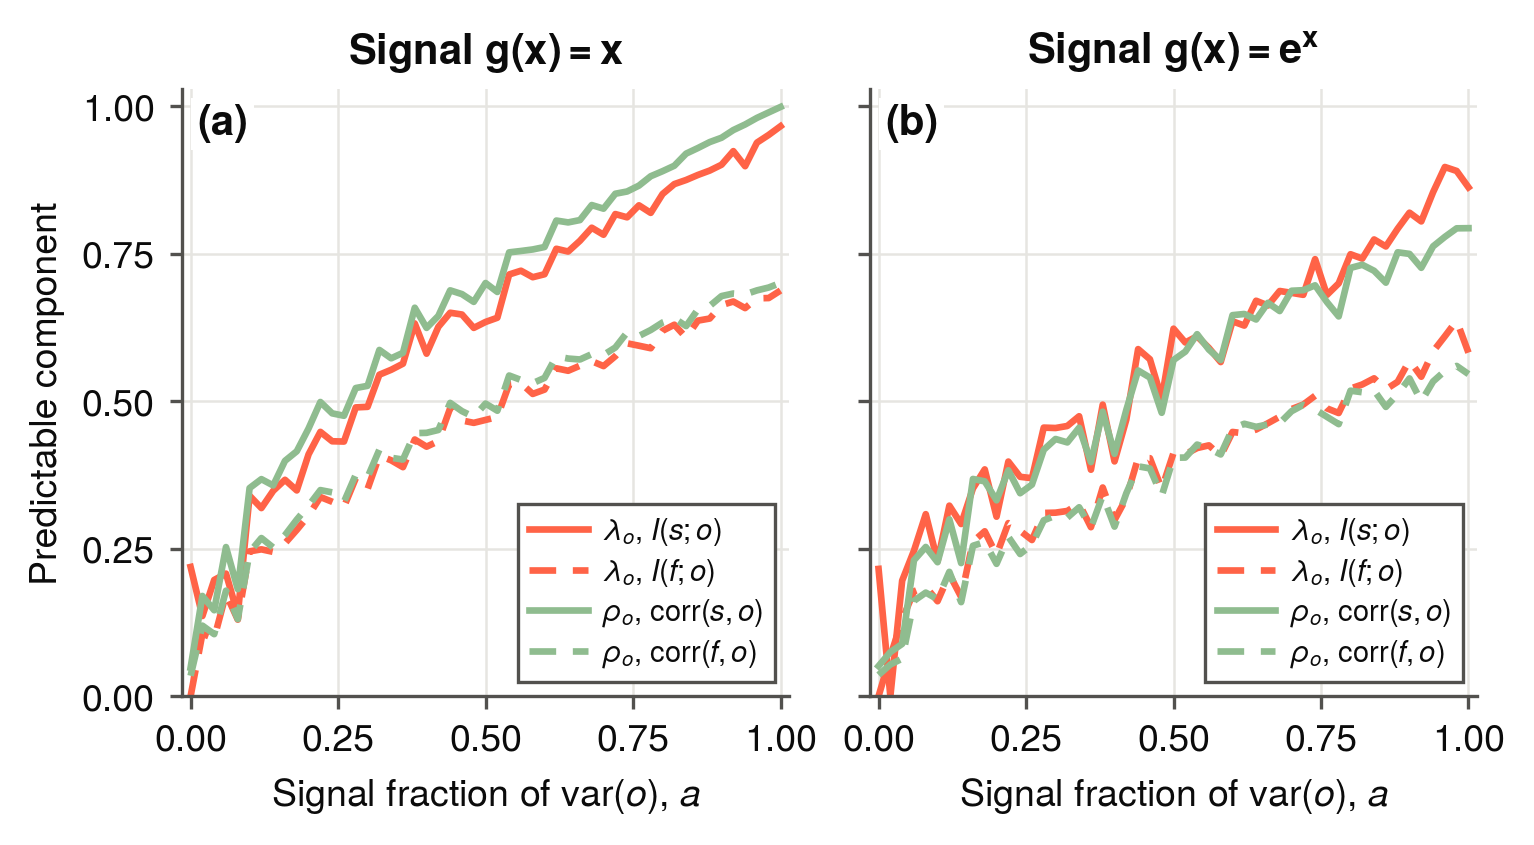
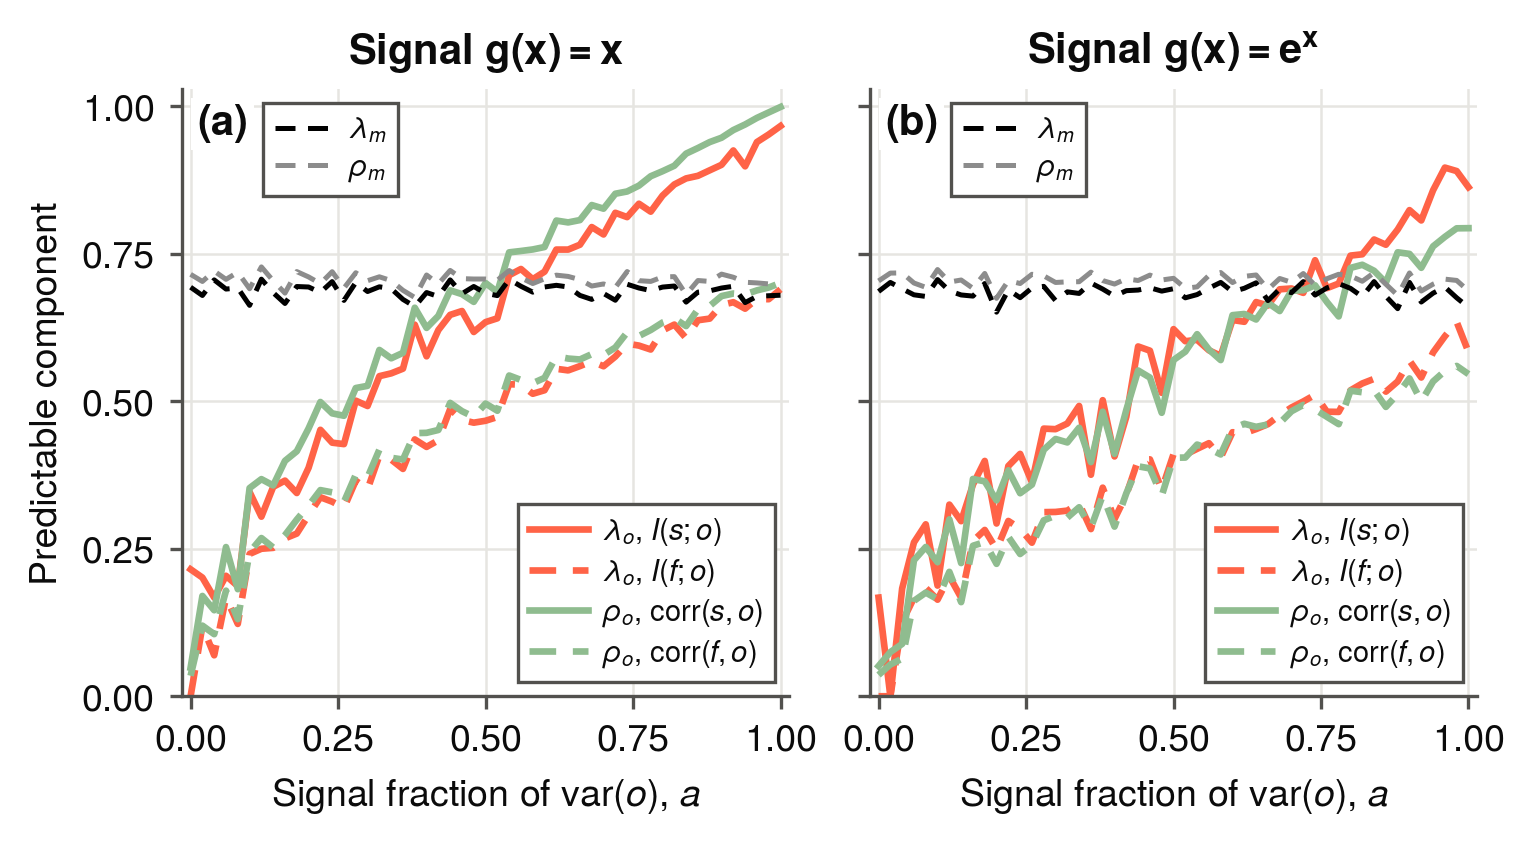
fixed-ensemble-lambda-o: the ensemble's lambda_m and rho_m as reference lines
Dashed black lambda_m (I(s_-n; f), pooled) and dashed grey rho_m (rho_m^(2),
also from s_-n) of the fixed ensemble, flat near sqrt(0.5) since the members do
not change with a; their key sits top left beside the panel letter, the skill
key stays lower right. ensemble() is now shared by both figures
(gaussian-array-lambda-rho values unchanged, checked bitwise).

diff --git a/scripts/gaussian_demo.py b/scripts/gaussian_demo.py
@@ -25,7 +25,8 @@ fixed-ensemble-lambda-o: the members do not change with a, f_n = sqrt(R_M) x + s
 g(x) = x and g(x) = exp(x). Same N, T, bins and estimators as the bottom row above. A member is at
 most sqrt(R_M) correlated with x, so the (f; o) curves stop near sqrt(0.5) at a = 1; with g = exp
 the observations are a nonlinear function of the members' signal, which lambda_o sees and
-rho_o, a linear measure, does not fully.
+rho_o, a linear measure, does not fully. The ensemble's own lambda_m and rho_m (= rho_m^(2), from
+s_-n like lambda_m) are drawn for reference, dashed black and grey; they do not depend on a.
 Both run in under a minute on 16 cores (multiprocessing over the curve points).
 """
 import argparse
@@ -84,11 +85,16 @@ def point(args):
     gx = (gx - gx.mean()) / gx.std()
     F = np.sqrt(a) * gx + np.sqrt(1 - a) * rng.standard_normal((N, T))
     o = np.sqrt(a) * gx + np.sqrt(1 - a) * rng.standard_normal(T)
+    return ensemble(F, rng) + skill(F, F.mean(0), o, rng)
+
+
+def ensemble(F, rng):
+    """lambda_m terms from I(s_-n; f) pooled, rho_m^(1) and rho_m^(2)."""
     s, L = F.mean(0), loo_means(F)
     I_m, null_m = info(L, F, rng, size_x=L.mean(0))                 # s_-n on its T centres
     rho1 = np.sqrt(np.var(s) / np.mean(np.var(F, axis=1)))
     rho2 = np.mean([corr(F[n], L[n]) for n in range(N)])
-    return (I_m, null_m, rho1, rho2) + skill(F, s, o, rng)
+    return I_m, null_m, rho1, rho2
 
 
 def skill(F, s, o, rng):
@@ -106,7 +112,7 @@ def point_fixed(args):
     F = np.sqrt(R_M) * x + np.sqrt(1 - R_M) * rng.standard_normal((N, T))
     gx = G[g](x)
     o = np.sqrt(a) * (gx - gx.mean()) / gx.std() + np.sqrt(1 - a) * rng.standard_normal(T)
-    return skill(F, F.mean(0), o, rng)
+    return ensemble(F, rng) + skill(F, F.mean(0), o, rng)
 
 
 def compute(seed, fn, keys, tag):
@@ -131,13 +137,21 @@ def skill_curves(ax, d, g):
     ax.plot(a, np.abs(d[f"{g}_rho_f"]), color=RHO_O, lw=1.6, ls=DASH, label=r"$\rho_o$, corr$(f,o)$")
 
 
-def finish(ax):
+LEGEND = dict(fontsize=7, handlelength=2.0, borderpad=0.4, labelspacing=0.3, handletextpad=0.5)
+
+
+def finish(ax, n_low=None):
+    """Axes limits and style; the first n_low curves (all by default) in a lower-right legend,
+    the rest in a second one at the top left, beside the panel letter."""
     style.tidy(ax)
     ax.set(xlim=(-0.015, 1.015), ylim=(0, 1.03), xticks=np.arange(0, 1.01, 0.25),
            yticks=np.arange(0, 1.01, 0.25))
     ax.set_aspect("equal")
-    ax.legend(loc="lower right", fontsize=7, handlelength=2.0, borderpad=0.4,
-              labelspacing=0.3, handletextpad=0.5)
+    h, lab = ax.get_legend_handles_labels()
+    low = ax.legend(h[:n_low], lab[:n_low], loc="lower right", **LEGEND)
+    if n_low is not None:
+        ax.add_artist(low)
+        ax.legend(h[n_low:], lab[n_low:], loc="upper left", bbox_to_anchor=(0.11, 1.0), **LEGEND)
 
 
 def plot(d):
@@ -163,9 +177,11 @@ def plot_fixed(d):
     fig, axs = plt.subplots(1, 2, figsize=(5.0, 2.75), layout="constrained", sharey=True)
     for ax, letter, g in zip(axs, "ab", G):
         skill_curves(ax, d, g)
+        ax.plot(d["a"], lam(d, f"{g}_I_m"), color="black", lw=1.2, ls=DASH, label=r"$\lambda_m$")
+        ax.plot(d["a"], d[f"{g}_rho_m_2"], color="0.55", lw=1.2, ls=DASH, label=r"$\rho_m$")
         style.panel_label(ax, letter, TITLES[g], inside=True)
         ax.set_xlabel("Signal fraction of var($o$), $a$")
-        finish(ax)
+        finish(ax, n_low=4)
     axs[0].set_ylabel("Predictable component")
     style.save(fig, NAME_FIXED)
 
@@ -176,7 +192,7 @@ def main():
     ap.add_argument("--recompute", action="store_true", help="redo the arrays even if the npz exists")
     args = ap.parse_args()
     for name, fn, keys, tag, draw in ((NAME, point, KEYS, 0, plot),
-                                      (NAME_FIXED, point_fixed, KEYS_O, 1, plot_fixed)):
+                                      (NAME_FIXED, point_fixed, KEYS, 1, plot_fixed)):
         npz = style.data_path(name + ".npz")
         if args.recompute or not os.path.exists(npz):
             np.savez(npz, **compute(args.seed, fn, keys, tag))
